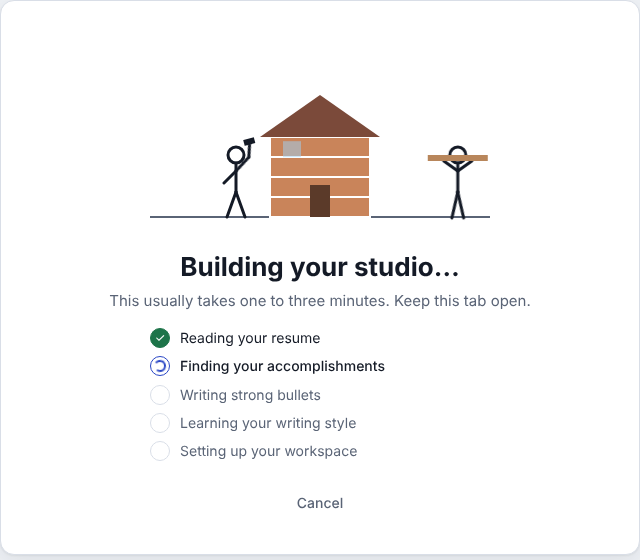
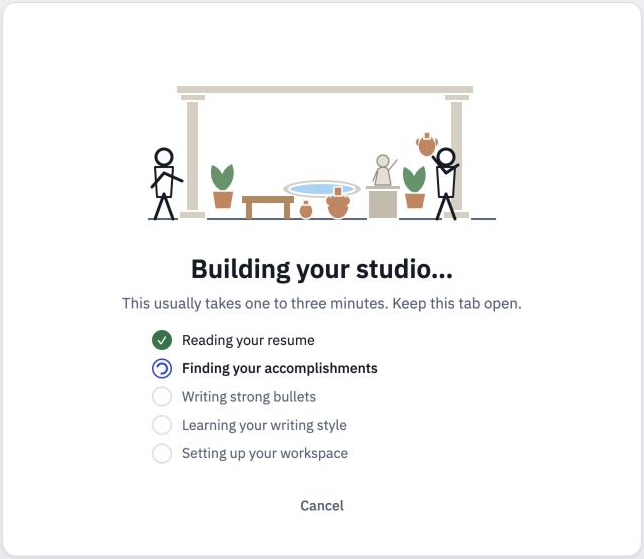
Rename to Atria Application Studio and furnish an atrium (#5)
Rename every user-facing mention: the page title, the header, the
onboarding heading and dialog label, the backup filename and the
restore error. The backup's machine key stays "application-studio" so
existing backup files still restore.

Replace the house-building animation with two Romans carrying a bench,
vases, plants and a statue into an atrium: columns and architrave, an
impluvium that ripples, seven furnishings that arrive one by one, and a
walker who carries an amphora in. Same timing grammar and the same
reduced-motion fallback as before.

diff --git a/index.html b/index.html
@@ -3,7 +3,7 @@
 <head>
 <meta charset="utf-8">
 <meta name="viewport" content="width=device-width, initial-scale=1">
-<title>Application Studio</title>
+<title>Atria Application Studio</title>
 <link rel="preconnect" href="https://fonts.googleapis.com">
 <link rel="preconnect" href="https://fonts.gstatic.com" crossorigin>
 <link href="https://fonts.googleapis.com/css2?family=IBM+Plex+Mono:wght@500&family=IBM+Plex+Sans:ital,wght@0,400;0,500;0,600;1,400&family=Tinos:ital,wght@0,400;0,700;1,400&display=swap" rel="stylesheet">
@@ -230,35 +230,40 @@ table.trk select,table.trk input[type=date]{width:auto;padding:5px 8px;font-size
 .scene .gnd{stroke:var(--muted);stroke-width:2}
 .scene .fig{stroke:var(--ink);stroke-width:3;stroke-linecap:round;fill:none}
 .scene .fig circle{fill:var(--panel)}
-.scene .hamhead{fill:var(--ink);stroke:none}
-.scene .plank{fill:#b8865b;stroke:none}
-.scene .hb,.scene .roof,.scene .door,.scene .win{opacity:0;animation-duration:7s;animation-iteration-count:infinite;animation-timing-function:ease-out}
-.scene .hb{fill:#c9845a;stroke:var(--panel);stroke-width:2}
-.scene .roof{fill:#7b4a3a}.scene .door{fill:#5b3a29}.scene .win{fill:#9fd3f5}
-.scene .b1{animation-name:kb1}
-@keyframes kb1{0%,0%{opacity:0;transform:translateY(-16px)}5%{opacity:1;transform:none}88%{opacity:1;transform:none}95%,100%{opacity:0;transform:none}}
-.scene .b2{animation-name:kb2}
-@keyframes kb2{0%,10%{opacity:0;transform:translateY(-16px)}15%{opacity:1;transform:none}88%{opacity:1;transform:none}95%,100%{opacity:0;transform:none}}
-.scene .b3{animation-name:kb3}
-@keyframes kb3{0%,20%{opacity:0;transform:translateY(-16px)}25%{opacity:1;transform:none}88%{opacity:1;transform:none}95%,100%{opacity:0;transform:none}}
-.scene .b4{animation-name:kb4}
-@keyframes kb4{0%,30%{opacity:0;transform:translateY(-16px)}35%{opacity:1;transform:none}88%{opacity:1;transform:none}95%,100%{opacity:0;transform:none}}
-.scene .roof{animation-name:kroof}
-@keyframes kroof{0%,40%{opacity:0;transform:translateY(-16px)}45%{opacity:1;transform:none}88%{opacity:1;transform:none}95%,100%{opacity:0;transform:none}}
-.scene .door{animation-name:kdoor}
-@keyframes kdoor{0%,52%{opacity:0;transform:translateY(-16px)}57%{opacity:1;transform:none}88%{opacity:1;transform:none}95%,100%{opacity:0;transform:none}}
-.scene .win{animation-name:kwin}
-@keyframes kwin{0%,58%{opacity:0;transform:translateY(-16px)}63%{opacity:1;transform:none}88%{opacity:1;transform:none}95%,100%{opacity:0;transform:none}}
-.scene .win.w2{animation-name:kw2}
-@keyframes kw2{0%,62%{opacity:0;transform:translateY(-16px)}67%{opacity:1;transform:none}88%{opacity:1;transform:none}95%,100%{opacity:0;transform:none}}
-.scene .arm{transform-origin:0 134px;animation:hammer .5s ease-in-out infinite alternate}
+.scene .toga{fill:var(--panel);stroke:var(--ink);stroke-width:2;stroke-linejoin:round}
+.scene .stone{fill:#d6d0c2;stroke:var(--panel);stroke-width:2}
+.scene .water{fill:#9fd3f5;stroke:var(--panel);stroke-width:2}
+.scene .wood{fill:#b8865b;stroke:none}
+.scene .clay{fill:#c9845a;stroke:var(--panel);stroke-width:1.5}
+.scene .leaf{fill:#5a9367;stroke:none}
+.scene .plinth{fill:#c3bcab;stroke:var(--panel);stroke-width:2}
+.scene .marble{fill:#e4dfd2;stroke:#8f897a;stroke-width:1.2;stroke-linejoin:round}
+/* each furnishing is carried in and set down, one after another */
+.scene .it{opacity:0;animation-duration:7s;animation-iteration-count:infinite;animation-timing-function:ease-out}
+.scene .i1{animation-name:ka1}
+@keyframes ka1{0%,0%{opacity:0;transform:translateY(-16px)}5%{opacity:1;transform:none}88%{opacity:1;transform:none}95%,100%{opacity:0;transform:none}}
+.scene .i2{animation-name:ka2}
+@keyframes ka2{0%,10%{opacity:0;transform:translateY(-16px)}15%{opacity:1;transform:none}88%{opacity:1;transform:none}95%,100%{opacity:0;transform:none}}
+.scene .i3{animation-name:ka3}
+@keyframes ka3{0%,20%{opacity:0;transform:translateY(-16px)}25%{opacity:1;transform:none}88%{opacity:1;transform:none}95%,100%{opacity:0;transform:none}}
+.scene .i4{animation-name:ka4}
+@keyframes ka4{0%,30%{opacity:0;transform:translateY(-16px)}35%{opacity:1;transform:none}88%{opacity:1;transform:none}95%,100%{opacity:0;transform:none}}
+.scene .i5{animation-name:ka5}
+@keyframes ka5{0%,40%{opacity:0;transform:translateY(-16px)}45%{opacity:1;transform:none}88%{opacity:1;transform:none}95%,100%{opacity:0;transform:none}}
+.scene .i6{animation-name:ka6}
+@keyframes ka6{0%,52%{opacity:0;transform:translateY(-16px)}57%{opacity:1;transform:none}88%{opacity:1;transform:none}95%,100%{opacity:0;transform:none}}
+.scene .i7{animation-name:ka7}
+@keyframes ka7{0%,60%{opacity:0;transform:translateY(-16px)}65%{opacity:1;transform:none}88%{opacity:1;transform:none}95%,100%{opacity:0;transform:none}}
+.scene .ripple{transform-origin:180px 172px;animation:ripple 3.5s ease-in-out infinite alternate}
+.scene .arm{transform-origin:0 134px;animation:place 1.6s ease-in-out infinite alternate}
 .scene .walker{animation:walk 4s ease-in-out infinite alternate}
 .scene .l1{transform-origin:0 155px;animation:step .5s ease-in-out infinite alternate}
 .scene .l2{transform-origin:0 155px;animation:step .5s ease-in-out infinite alternate-reverse}
-@keyframes hammer{from{transform:rotate(-28deg)}to{transform:rotate(18deg)}}
-@keyframes walk{from{transform:translate(262px,0)}to{transform:translate(318px,0)}}
+@keyframes place{from{transform:rotate(-20deg)}to{transform:rotate(6deg)}}
+@keyframes walk{from{transform:translate(350px,0)}to{transform:translate(300px,0)}}
 @keyframes step{from{transform:rotate(-16deg)}to{transform:rotate(16deg)}}
-@media (prefers-reduced-motion:reduce){.scene *{animation:none!important}.scene .hb,.scene .roof,.scene .door,.scene .win{opacity:1}.scene .walker{transform:translate(290px,0)}}
+@keyframes ripple{from{transform:scaleX(1)}to{transform:scaleX(.94)}}
+@media (prefers-reduced-motion:reduce){.scene *{animation:none!important}.scene .it{opacity:1}.scene .walker{transform:translate(300px,0)}}
 .pf-row{display:grid;grid-template-columns:1.4fr 1fr 1.4fr .8fr auto;gap:6px;align-items:center}
 .pf-row .wide{grid-column:1 / 5}
 .pf-row.two{grid-template-columns:1fr 2.4fr auto}
@@ -271,7 +276,7 @@ table.trk select,table.trk input[type=date]{width:auto;padding:5px 8px;font-size
 </head>
 <body>
 <header class="top">
-  <div class="brand">Application Studio<small id="brand-sub">resumes and answers from one bank</small></div>
+  <div class="brand">Atria Application Studio<small id="brand-sub">resumes and answers from one bank</small></div>
   <nav aria-label="Views">
     <a href="#tailor" data-view="tailor">Tailor resume</a>
     <a href="#bulk" data-view="bulk">Bulk resumes</a>
@@ -498,7 +503,7 @@ table.trk select,table.trk input[type=date]{width:auto;padding:5px 8px;font-size
 </main>
 
 <div class="pop" id="pop" hidden role="dialog" aria-label="Choose a bullet"></div>
-<div class="ov" id="ob" hidden role="dialog" aria-modal="true" aria-label="Set up Application Studio"><div class="ob-panel" id="ob-panel"></div></div>
+<div class="ov" id="ob" hidden role="dialog" aria-modal="true" aria-label="Set up Atria Application Studio"><div class="ob-panel" id="ob-panel"></div></div>
 <div class="ov" id="pf" hidden role="dialog" aria-modal="true" aria-label="Profile and data"><div class="pf-panel"><div class="row" style="justify-content:space-between"><h2 style="font-size:18px">Profile &amp; data</h2><button class="btn sm ghost" data-pf="close">Close</button></div><div id="pf-body" class="stack" style="gap:18px"></div></div></div>
 
 
@@ -1860,7 +1865,7 @@ function renderOb(){
   const el = $("ob-panel"); let h = "";
   const dots = '<div class="ob-dots" aria-hidden="true">' + [1,2,3].map(n => '<i class="' + (n <= Math.min(ob.step, 3) ? "on" : "") + '"></i>').join("") + "</div>";
   if (ob.step === 1) {
-    h = dots + '<h1>Welcome to Application Studio</h1><p class="ob-lead">Build one bank of your best accomplishments, then create a tailored resume, cover letter and application answers for every job you apply to.</p>' +
+    h = dots + '<h1>Welcome to Atria Application Studio</h1><p class="ob-lead">Build one bank of your best accomplishments, then create a tailored resume, cover letter and application answers for every job you apply to.</p>' +
       '<h2>Which roles are you applying to?</h2><p class="muted small" style="margin-top:-6px">Pick one or more. Each field has its own style of strong bullets.</p><div class="ob-opts">' +
       FIELD_KEYS.map(k => '<label class="ob-opt' + (ob.fields.includes(k) ? " on" : "") + '"><input type="checkbox" data-ob="field" value="' + k + '"' + (ob.fields.includes(k) ? " checked" : "") + '><span><b>' + esc(fieldLabel(k)) + '</b><span class="muted small">' + esc(FIELD_BLURB[k]) + "</span></span></label>").join("") +
       '</div><div class="ob-actions"><span></span><button class="btn primary" data-ob="next1"' + (ob.fields.length ? "" : " disabled") + ">Continue</button></div>";
@@ -1882,34 +1887,67 @@ function renderOb(){
   if (ob.step === 3) {
     const stepsHTML = OB_STEPS.map((s, i) => { const st = ob.status[i] || "wait"; return '<li class="' + st + '"><span class="ic">' + (st === "done" ? "✓" : st === "skip" ? "–" : st === "run" ? '<span class="spin"></span>' : st === "fail" ? "!" : "") + "</span>" + esc(s) + (st === "skip" ? ' <span class="muted small">(no samples)</span>' : "") + "</li>"; }).join("");
     const live = el.querySelector(".ob-steps"); if (live) { live.innerHTML = stepsHTML; return; }
-    h = '<div class="ob-build"><div class="scene" aria-hidden="true">' + HOUSE_SVG + '</div><h1 style="text-align:center">Building your studio…</h1><p class="ob-lead" style="text-align:center">This usually takes one to three minutes. Keep this tab open.</p><ol class="ob-steps" aria-live="polite">' + stepsHTML + '</ol><div id="ob-err"></div><div class="ob-actions" style="justify-content:center"><button class="btn ghost" data-ob="cancel">Cancel</button></div></div>';
+    h = '<div class="ob-build"><div class="scene" aria-hidden="true">' + ATRIUM_SVG + '</div><h1 style="text-align:center">Building your studio…</h1><p class="ob-lead" style="text-align:center">This usually takes one to three minutes. Keep this tab open.</p><ol class="ob-steps" aria-live="polite">' + stepsHTML + '</ol><div id="ob-err"></div><div class="ob-actions" style="justify-content:center"><button class="btn ghost" data-ob="cancel">Cancel</button></div></div>';
   }
   el.innerHTML = h;
 }
-const HOUSE_SVG = `<svg viewBox="0 0 360 200" width="360" height="200" role="img" aria-label="Two stick figures building a house">
-<line x1="10" y1="180" x2="350" y2="180" class="gnd"/>
-<g class="house">
-  <rect class="hb b1" x="130" y="160" width="100" height="20"/>
-  <rect class="hb b2" x="130" y="140" width="100" height="20"/>
-  <rect class="hb b3" x="130" y="120" width="100" height="20"/>
-  <rect class="hb b4" x="130" y="100" width="100" height="20"/>
-  <polygon class="roof" points="120,100 180,58 240,100"/>
-  <rect class="door" x="170" y="148" width="20" height="32"/>
-  <rect class="win" x="143" y="112" width="18" height="16"/>
-  <rect class="win w2" x="199" y="112" width="18" height="16"/>
+const ATRIUM_SVG = `<svg viewBox="0 0 360 200" width="360" height="200" role="img" aria-label="Two Romans carrying benches, statues, vases and plants into an atrium">
+<line x1="6" y1="180" x2="354" y2="180" class="gnd"/>
+<g class="room">
+  <rect class="stone" x="34" y="46" width="298" height="9"/>
+  <rect class="stone" x="38" y="55" width="26" height="7"/><rect class="stone" x="44" y="62" width="13" height="110"/><rect class="stone" x="37" y="172" width="27" height="8"/>
+  <rect class="stone" x="302" y="55" width="26" height="7"/><rect class="stone" x="308" y="62" width="13" height="110"/><rect class="stone" x="301" y="172" width="27" height="8"/>
+  <ellipse class="stone" cx="180" cy="150" rx="40" ry="10"/>
+  <ellipse class="water ripple" cx="180" cy="150" rx="33" ry="6"/>
 </g>
-<g class="fig f1" transform="translate(96,0)">
+<g class="it i1">
+  <rect class="wood" x="100" y="157" width="52" height="7"/>
+  <rect class="wood" x="104" y="164" width="6" height="16"/><rect class="wood" x="142" y="164" width="6" height="16"/>
+</g>
+<g class="it i2">
+  <path class="leaf" d="M80 152c-10-5-13-16-10-26 9 3 14 13 12 23z"/>
+  <path class="leaf" d="M82 152c9-6 12-17 8-27-9 4-13 14-10 24z"/>
+  <path class="clay" d="M70 152h22l-3 18H73z"/>
+</g>
+<g class="it i3">
+  <ellipse class="clay" cx="164" cy="172" rx="7" ry="8"/>
+  <rect class="clay" x="161" y="161" width="6" height="5"/>
+</g>
+<g class="it i4"><rect class="plinth" x="226" y="150" width="30" height="30"/><rect class="plinth" x="223" y="146" width="36" height="5"/></g>
+<g class="it i5">
+  <path class="marble" d="M233 146l3-16q5-4 10 0l3 16z"/>
+  <circle class="marble" cx="241" cy="122" r="6"/>
+  <path class="marble" d="M247 131l8-10" fill="none" stroke="#8f897a" stroke-width="3.4" stroke-linecap="round"/>
+  <path class="marble" d="M235 132l-4 10" fill="none" stroke="#8f897a" stroke-width="3" stroke-linecap="round"/>
+</g>
+<g class="it i6">
+  <ellipse class="clay" cx="196" cy="167" rx="11" ry="13"/>
+  <rect class="clay" x="192" y="148" width="8" height="9"/>
+  <path class="clay" d="M188 156c-6 2-6 9-1 11M204 156c6 2 6 9 1 11"/>
+</g>
+<g class="it i7">
+  <path class="leaf" d="M272 154c-10-5-13-16-10-26 9 3 14 13 12 23z"/>
+  <path class="leaf" d="M274 154c9-6 12-17 8-27-9 4-13 14-10 24z"/>
+  <path class="clay" d="M262 154h22l-3 16h-16z"/>
+</g>
+<g class="fig f1" transform="translate(22,0)">
   <circle cx="0" cy="118" r="8"/><line x1="0" y1="126" x2="0" y2="155"/>
+  <path class="toga" d="M-9 128L9 128L7 158L-7 158z"/>
   <line x1="0" y1="155" x2="-9" y2="180"/><line x1="0" y1="155" x2="9" y2="180"/>
-  <line x1="0" y1="134" x2="-12" y2="146"/>
-  <g class="arm"><line x1="0" y1="134" x2="16" y2="124"/><line class="ham" x1="16" y1="124" x2="20" y2="112"/><rect class="hamhead" x="15" y="106" width="11" height="6"/></g>
+  <line x1="0" y1="134" x2="-12" y2="148"/>
+  <g class="arm"><line x1="0" y1="134" x2="18" y2="142"/></g>
 </g>
 <g class="fig f2">
   <g class="walker">
     <circle cx="0" cy="118" r="8"/><line x1="0" y1="126" x2="0" y2="155"/>
+    <path class="toga" d="M-9 128L9 128L7 158L-7 158z"/>
     <line class="leg l1" x1="0" y1="155" x2="-9" y2="180"/><line class="leg l2" x1="0" y1="155" x2="9" y2="180"/>
-    <line x1="0" y1="134" x2="-14" y2="124"/><line x1="0" y1="134" x2="14" y2="124"/>
-    <rect class="plank" x="-30" y="118" width="60" height="6"/>
+    <line x1="0" y1="134" x2="-13" y2="118"/><line x1="0" y1="134" x2="12" y2="126"/>
+    <g transform="translate(-19,92)">
+      <ellipse class="clay" cx="0" cy="15" rx="9" ry="11"/>
+      <rect class="clay" x="-3" y="1" width="6" height="7"/>
+      <path class="clay" d="M-8 6c-5 2-5 8-1 10M8 6c5 2 5 8 1 10"/>
+    </g>
   </g>
 </g>
 </svg>`;
@@ -2099,7 +2137,7 @@ $("pf").addEventListener("click", async e => {
   if (a === "save") { readProfileForm(); PROFILE.sections = PROFILE.sections.map(s => ({label:s.label, text:s.text.trim()})).filter(s => s.text); rebuildSkills(); questions = buildQuestions(questions); persist("answers", questions); persistProfile(); renderAll(); $("pf-msg").textContent = "Saved."; }
   if (a === "export") {
     const data = {app:"application-studio", version:1, exportedAt:new Date().toISOString(), profile:{profile:PROFILE, fields:FIELDS, settings:SETTINGS, stories:STORIES}, roles:ROLES, bank, answers:questions, resumes, letters, letterstyle:letterStyle, tracker};
-    try { await downloads.save({filename:"Application Studio backup " + new Date().toISOString().slice(0, 10) + ".json", data:JSON.stringify(data, null, 1)}); } catch (err) { if (err && err.code !== "declined") $("pf-msg").textContent = "The backup couldn't be saved."; }
+    try { await downloads.save({filename:"Atria Application Studio backup " + new Date().toISOString().slice(0, 10) + ".json", data:JSON.stringify(data, null, 1)}); } catch (err) { if (err && err.code !== "declined") $("pf-msg").textContent = "The backup couldn't be saved."; }
   }
   if (a === "reset") {
     if (b.dataset.ok !== "1") { b.dataset.ok = "1"; b.textContent = "This deletes everything. Click again"; setTimeout(() => { b.dataset.ok = ""; b.textContent = "Start over"; }, 5000); return; }
@@ -2117,7 +2155,7 @@ $("pf").addEventListener("change", async e => {
     ROLES = d.roles || []; bank = d.bank || []; questions = d.answers || []; resumes = d.resumes || []; letters = d.letters || []; tracker = d.tracker || []; letterStyle = d.letterstyle || {samples:[], guide:""};
     persistProfile(); persist("roles", ROLES); persist("bank", bank); persist("answers", questions); persist("resumes", resumes); persist("letters", letters); persist("tracker", tracker); persist("letterstyle", letterStyle);
     rebuildSkills(); work = freshWork(); work.picks = defaultPicks(); saveWorkLocal(); renderAll(); renderProfile(); $("pf-msg").textContent = "Backup restored.";
-  } catch (err) { $("pf-msg").textContent = "That file isn't an Application Studio backup."; }
+  } catch (err) { $("pf-msg").textContent = "That file isn't an Atria Application Studio backup."; }
 });
 $("open-profile").addEventListener("click", openProfile);
 document.addEventListener("keydown", e => { if (e.key === "Escape" && !$("pf").hidden) closeProfile(); });

diff --git a/README.md b/README.md
@@ -1,15 +1,15 @@
-# Application Studio
+# Atria Application Studio
 
 Tailor a resume, cover letter and application answers to every job from one bank of your best accomplishments.
 
-Job seekers rewrite the same resume dozens of times, and the bullets usually get weaker each time. Application Studio flips that: you build one bank of strong, verified bullets once, and every application pulls the best ones for that job. The AI picks and lightly rewords, but it never invents a fact or a number.
+Job seekers rewrite the same resume dozens of times, and the bullets usually get weaker each time. Atria Application Studio flips that: you build one bank of strong, verified bullets once, and every application pulls the best ones for that job. The AI picks and lightly rewords, but it never invents a fact or a number.
 
 ![Onboarding: pick the roles you're applying to](docs/onboarding.png)
 
 ## How it works
 
 1. **Onboarding.** Pick the roles you're applying to (Product Management, Software Engineering, Business Operations). Upload your resume and a list of accomplishments, plus optional writing samples.
-2. **Claude builds your studio** while two stick figures build a house. It parses your resume, rewrites your accomplishments into strong bullets in the style of each field, tags each bullet with the one skill it proves, and learns your writing voice from your samples.
+2. **Claude builds your studio** while two Romans carry benches, statues, vases and plants into an atrium. It parses your resume, rewrites your accomplishments into strong bullets in the style of each field, tags each bullet with the one skill it proves, and learns your writing voice from your samples.
 3. **Apply.** Paste a job description and get a one-page resume, a cover letter and application answers tailored to it.
 
 ![Building your studio](docs/building.png)

diff --git a/CLAUDE.md b/CLAUDE.md
@@ -1,4 +1,4 @@
-# Application Studio: notes for Claude
+# Atria Application Studio: notes for Claude
 
 ## What this is
 A single-page app (`index.html`, plain HTML/CSS/JS, no build step) that tailors resumes, cover letters and application answers to each job from one bank of accomplishment bullets. It's a public portfolio project. The owner is a product manager who shows it to recruiters.
@@ -27,7 +27,7 @@ The repo is public. Never commit a real person's resume content, phone, email, a
 - **Onboarding overlay** (`#ob`), four steps:
   1. Pick fields.
   2. Upload resume, bullet bank and writing samples.
-  3. Stick-figure house-building animation while three Claude calls run: parse the resume, build the bank, and learn the writing style.
+  3. Line-art animation of two Romans carrying benches, statues, vases and plants into an atrium while three Claude calls run: parse the resume, build the bank, and learn the writing style.
   4. The app opens.
 - **Profile and data modal** (`#pf`): edit education, sections and fields; backup, restore, start over.
 - **Bullet rules everywhere:** never invent numbers, put a missing number in a `[bracket placeholder]` with a fallback version of the bullet, no em dashes, one skill per bullet.
